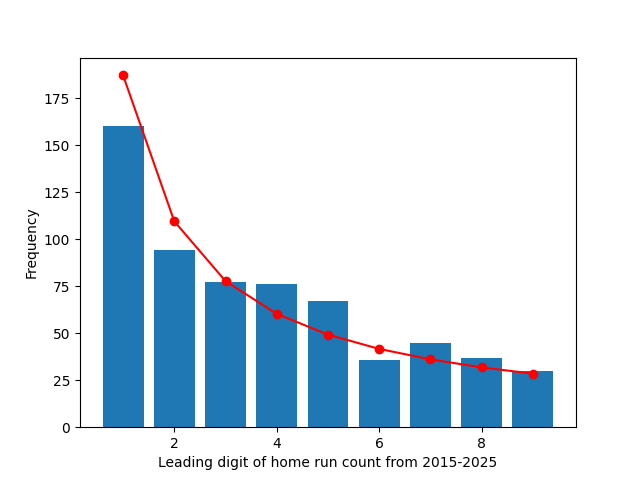
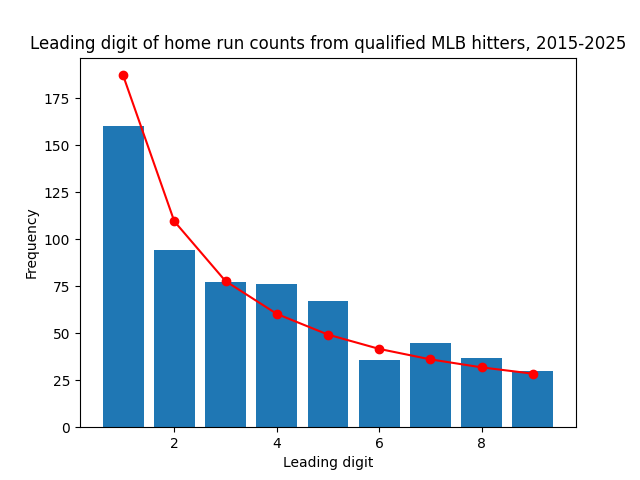
Updated plot xlabel, added title

Changed region(s): [[0.0625, 0.0625, 0.9688, 0.125], [0.25, 0.9375, 0.7812, 1.0]]

diff --git a/Stat210/project1.py b/Stat210/project1.py
@@ -18,6 +18,8 @@ digits = [1, 2, 3, 4, 5, 6, 7, 8, 9]
 benford_probs = [len(data["HR"])*math.log10(1 + 1 / digit) for digit in digits]
 fig = plt.bar(digits, leading_digit_quantities,)
 plt.plot(digits, benford_probs, color='red', marker='o',)
-plt.xlabel("Leading digit of home run count from 2015-2025")
+plt.xlabel("Leading digit")
 plt.ylabel("Frequency")
+plt.title("Leading digit of home run counts from qualified MLB hitters, 2015-2025")
 plt.savefig("distribution.png")
+
